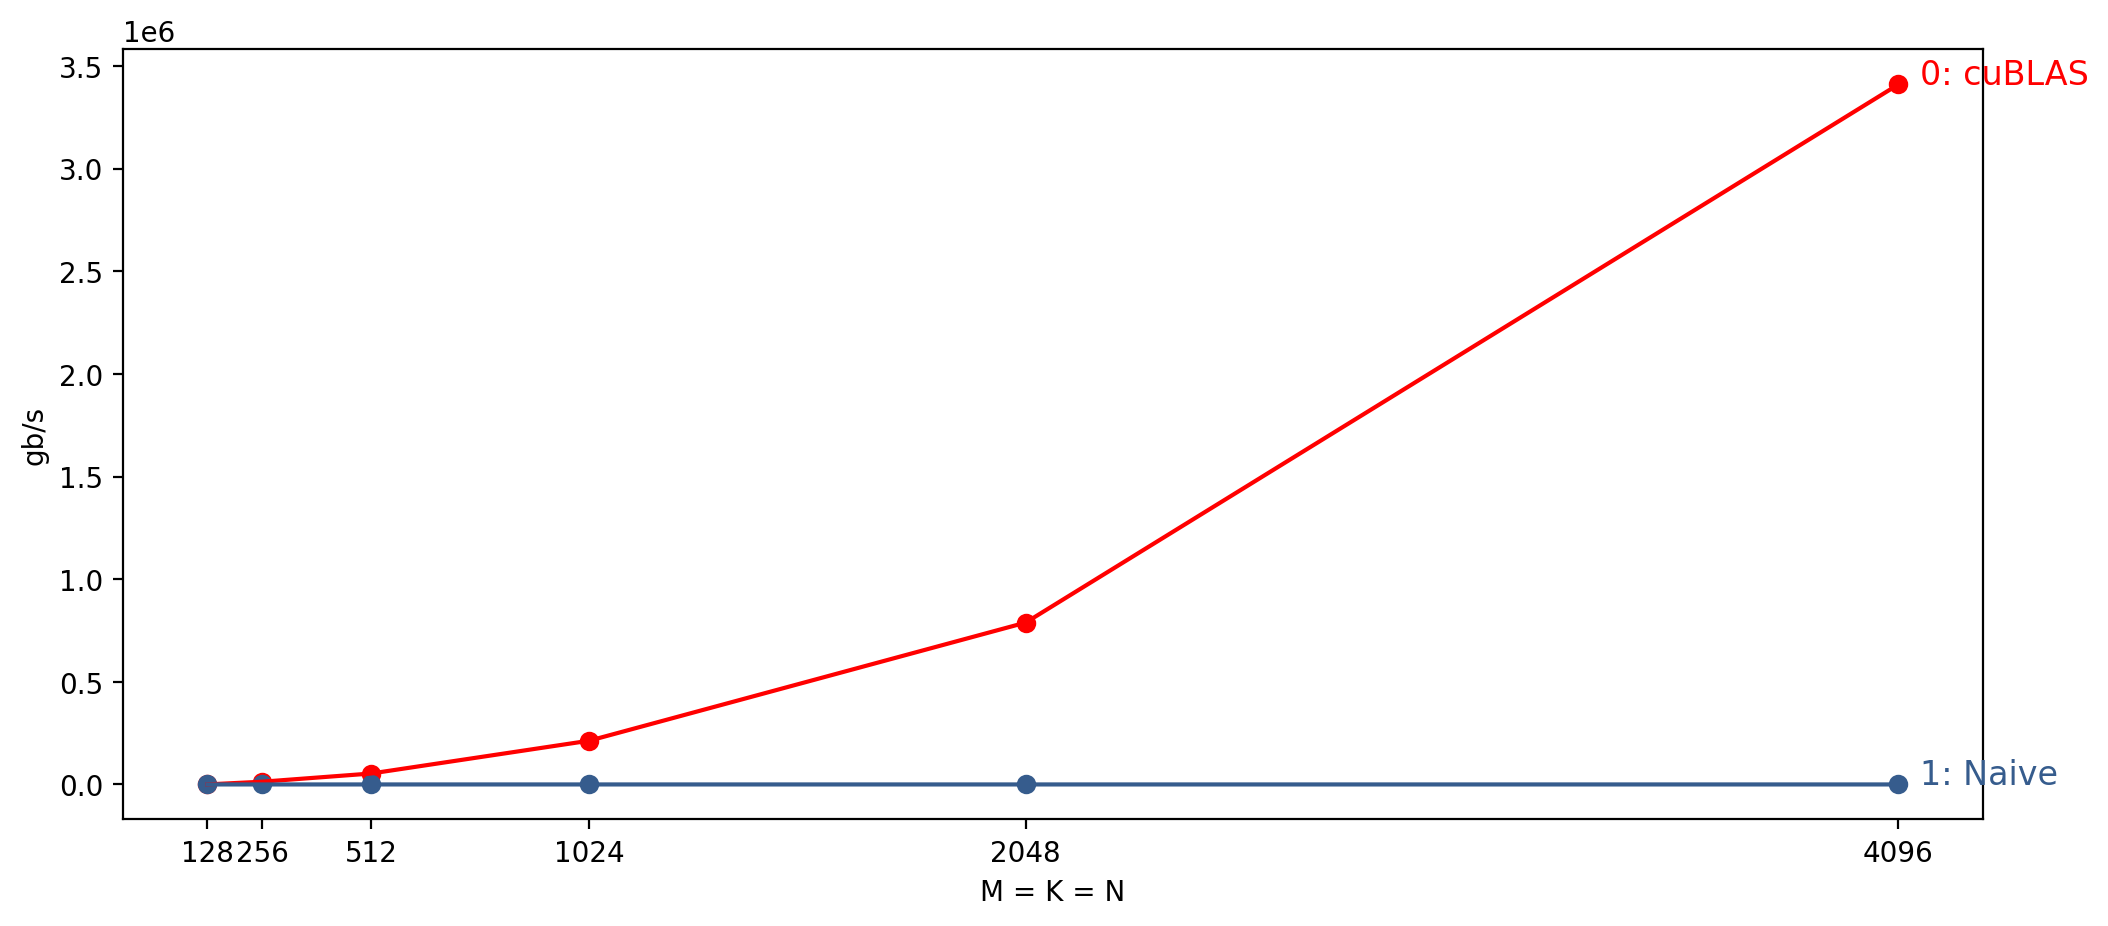
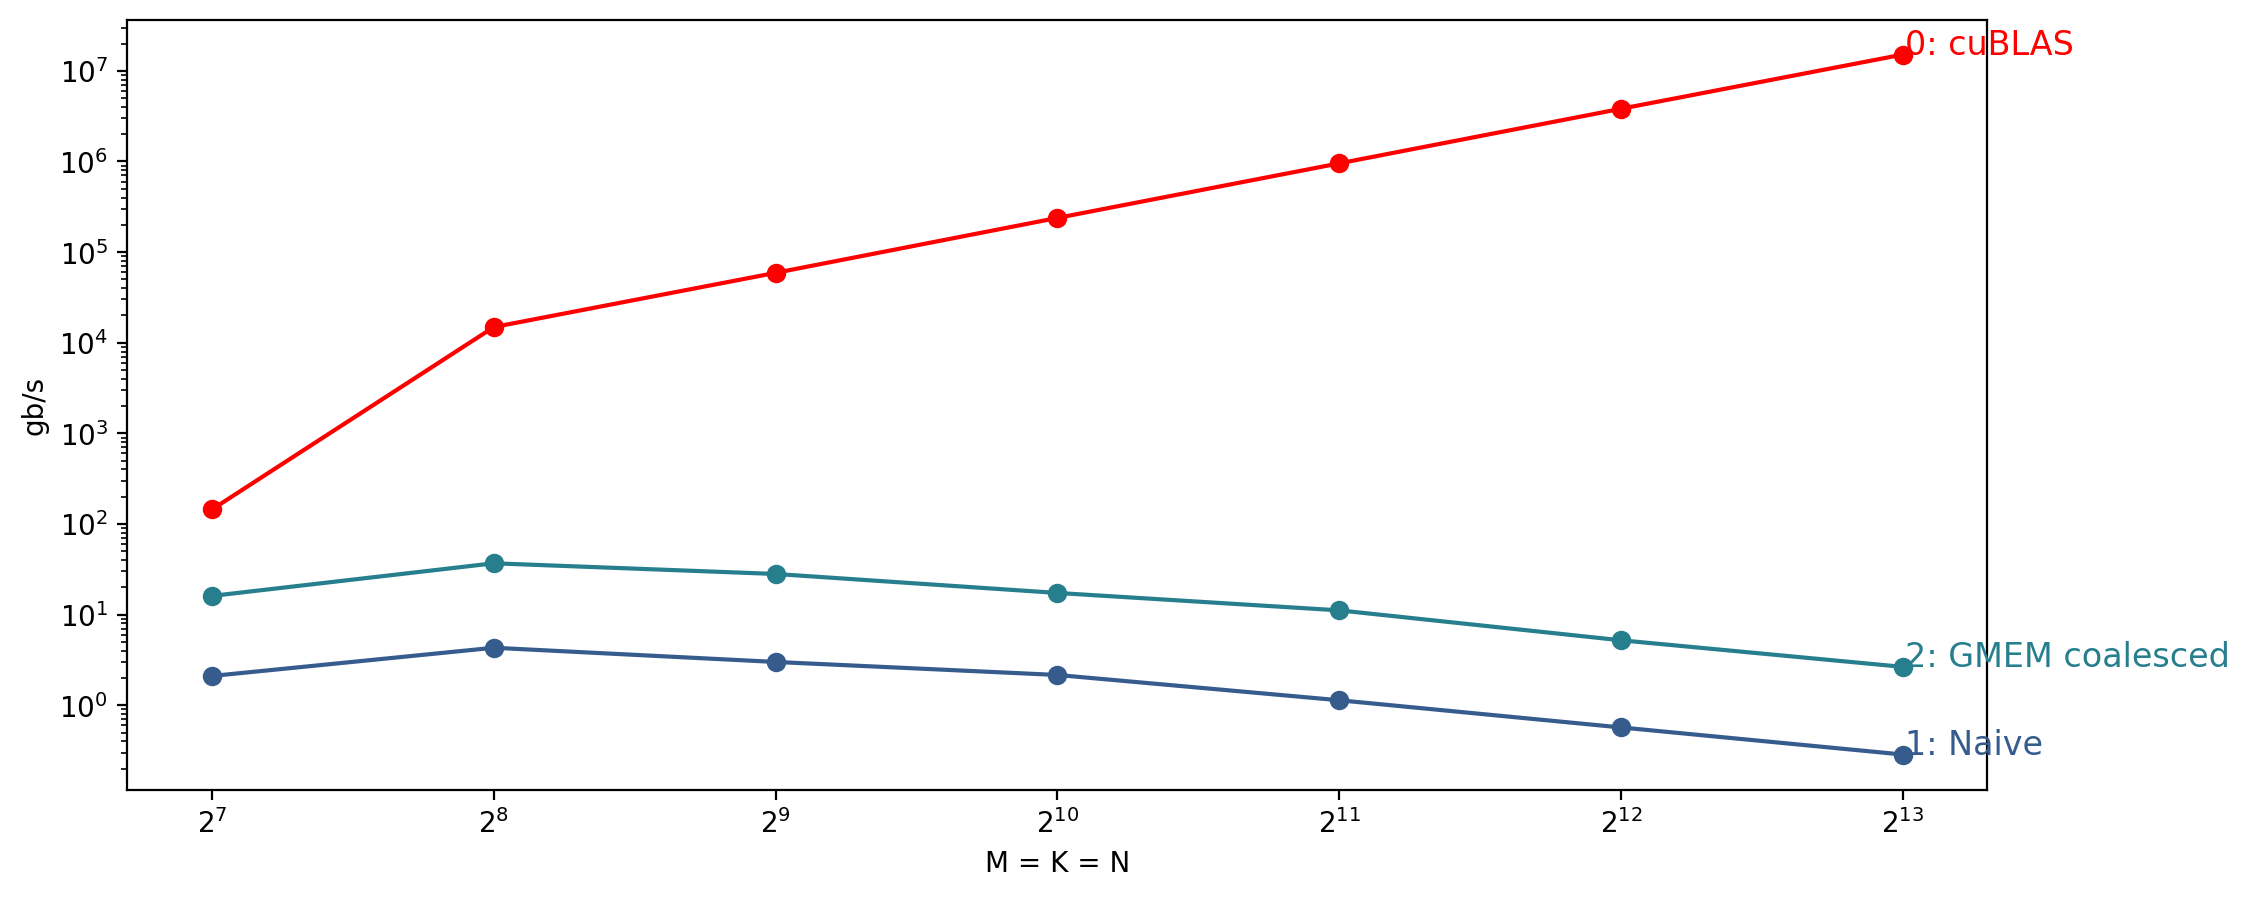
Include gmem coalescing kernel

diff --git a/plot_perf.py b/plot_perf.py
@@ -19,6 +19,7 @@ mpl.rcParams["savefig.bbox"] = "tight"
 KERNEL_IDX_TO_NAME = {
     0: "cuBLAS",
     1: "Naive",
+    2: "GMEM coalesced",
 }
 
 
@@ -40,8 +41,8 @@ def plot_perf(
     output_dir: str,
     perf_colname: str,
     *,
-    xscale: Literal["linear", "log"] = "linear",
-    yscale: Literal["linear", "log"] = "linear",
+    xscale: Literal["linear", "log", "log2"] = "linear",
+    yscale: Literal["linear", "log", "log2"] = "linear",
     also_save_svg: bool = False,
 ):
     os.makedirs(output_dir, exist_ok=True)
@@ -50,8 +51,14 @@ def plot_perf(
     colors = sns.color_palette("viridis")
     plt.xlabel("M = K = N")
     plt.ylabel(perf_colname)
-    plt.xscale(xscale)
-    plt.yscale(yscale)
+    if xscale == "log2":
+        plt.xscale("log", base=2)
+    else:
+        plt.xscale(xscale)
+    if yscale == "log2":
+        plt.yscale("log2")
+    else:
+        plt.yscale(yscale)
 
     for kernel_idx, kernel_name in KERNEL_IDX_TO_NAME.items():
         data = read_jsonl(os.path.join(benchmark_dir, f"{kernel_idx}.jsonl"))
@@ -63,7 +70,7 @@ def plot_perf(
         # Don't use the legend; instead, add the text to the plot.
         plt.text(
             data["size"][-1] + 50,
-            data[perf_colname][-1] + 500,
+            data[perf_colname][-1],
             f"{kernel_idx}: {kernel_name}",
             fontsize=12,
             ha="left",
@@ -89,7 +96,7 @@ if __name__ == "__main__":
             benchmark_dir=benchmark_dir,
             output_dir=output_dir,
             perf_colname=perf_colname,
-            xscale="linear",
-            yscale="linear",
+            xscale="log2",
+            yscale="log",
             also_save_svg=True if perf_colname == "tflops/s" else False,
         )
